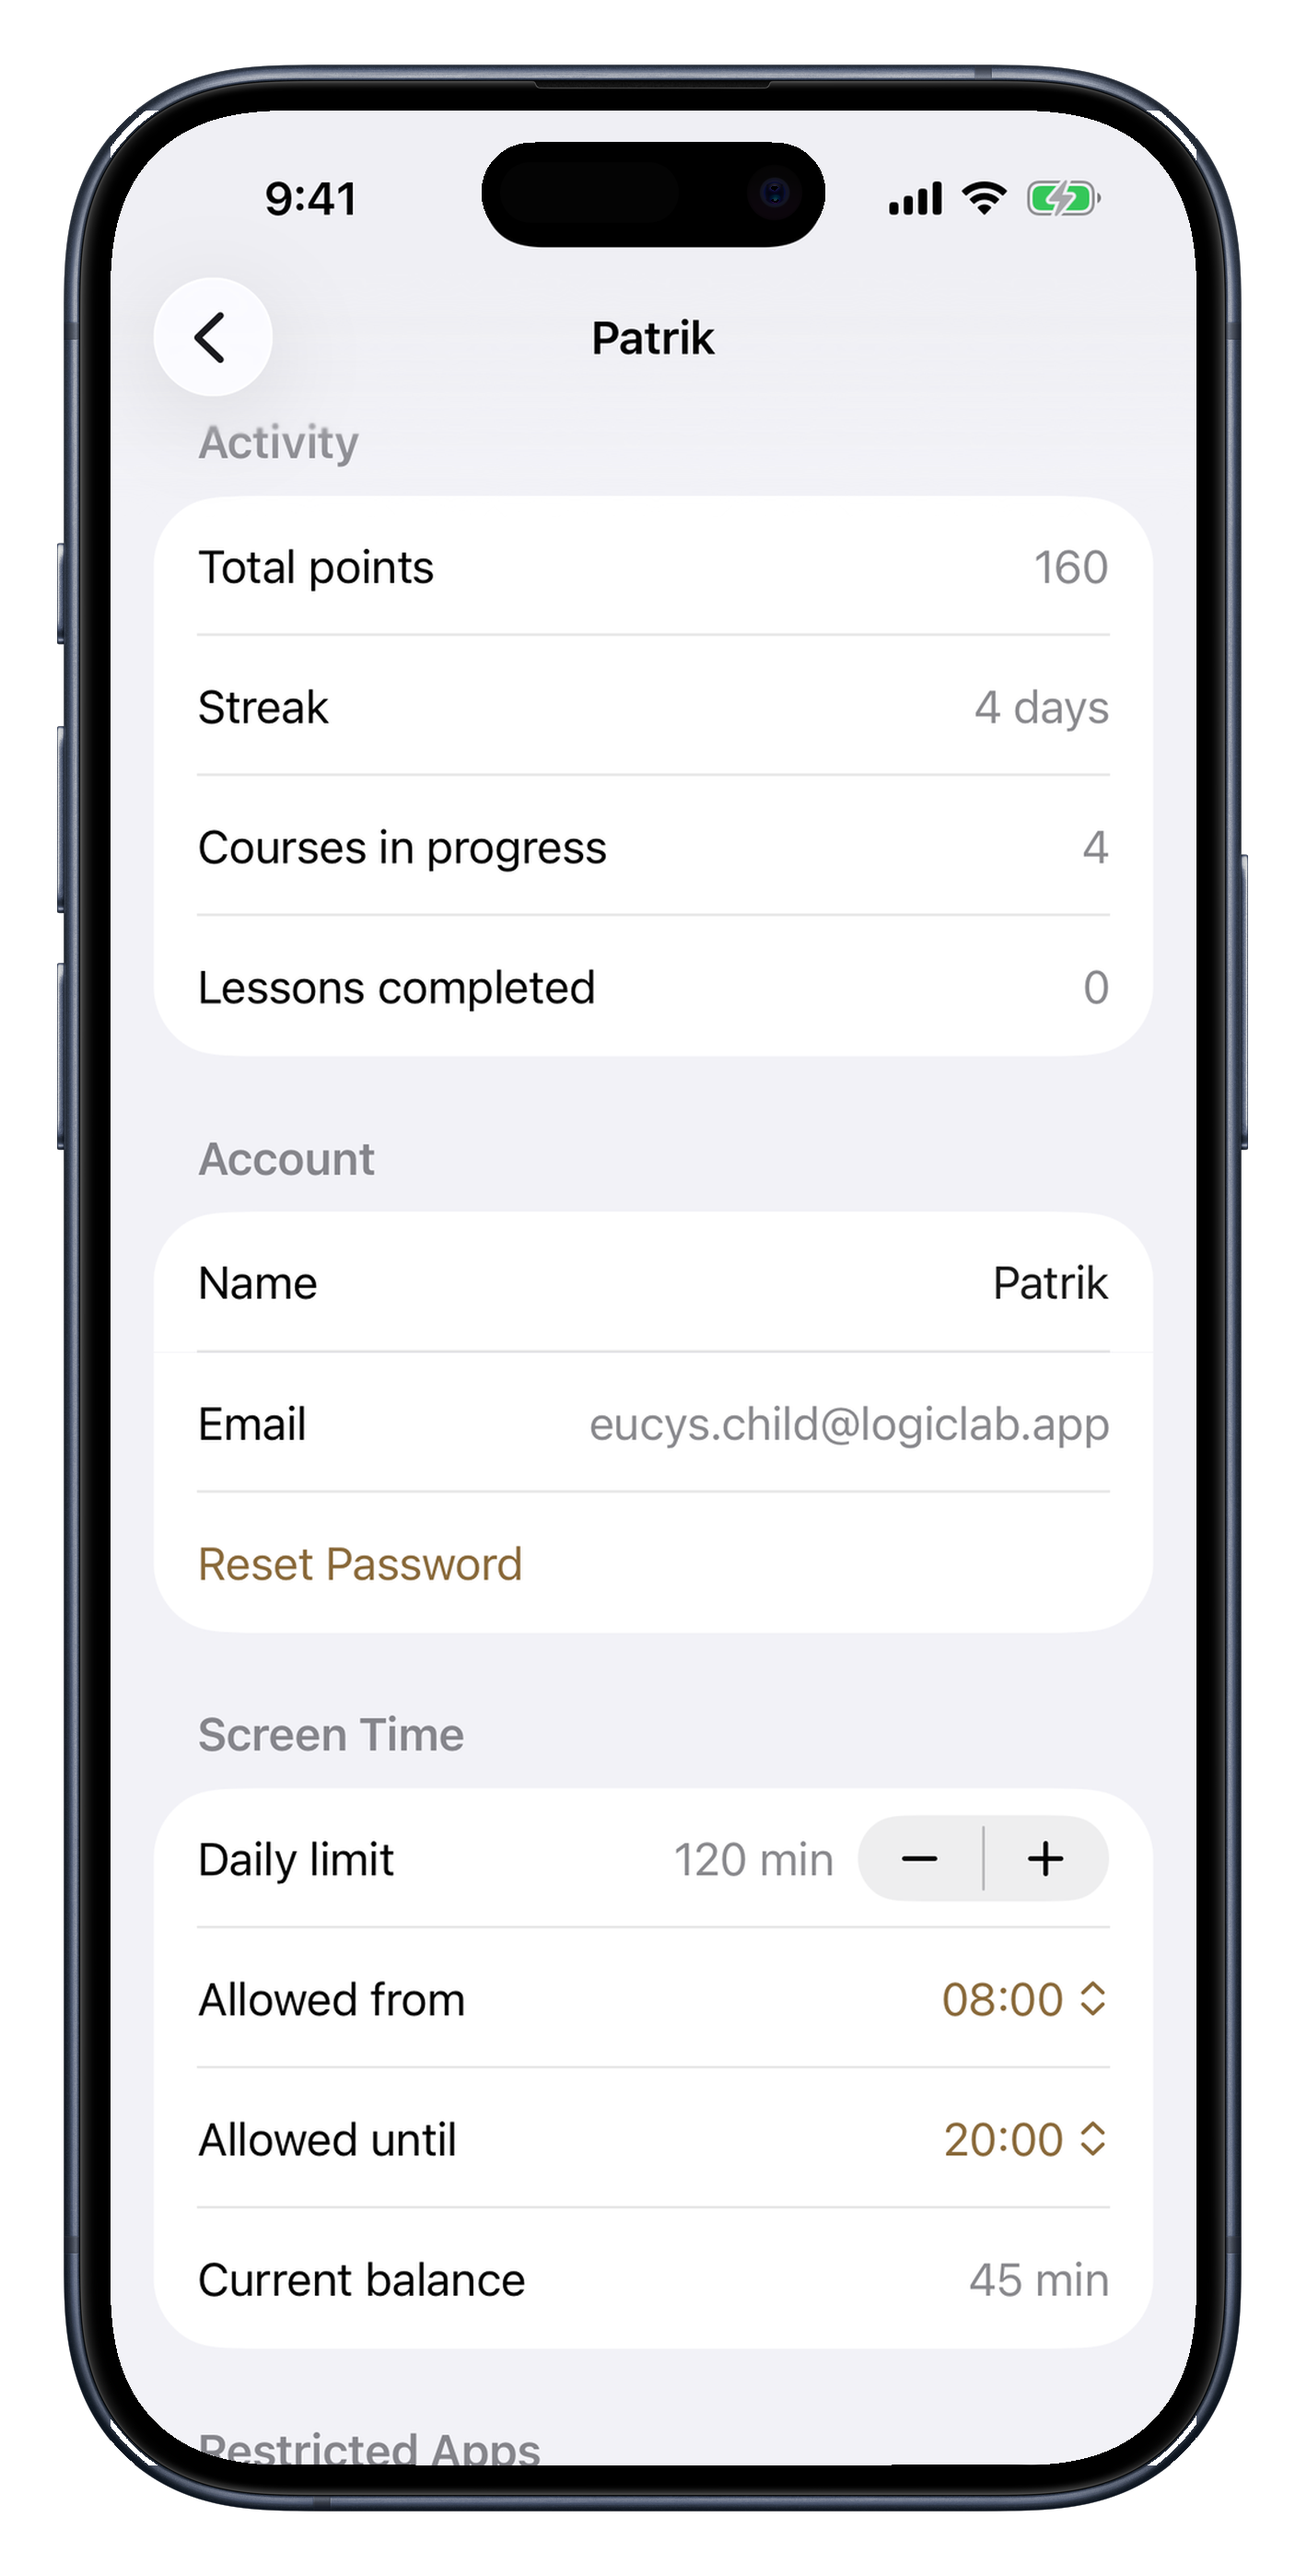
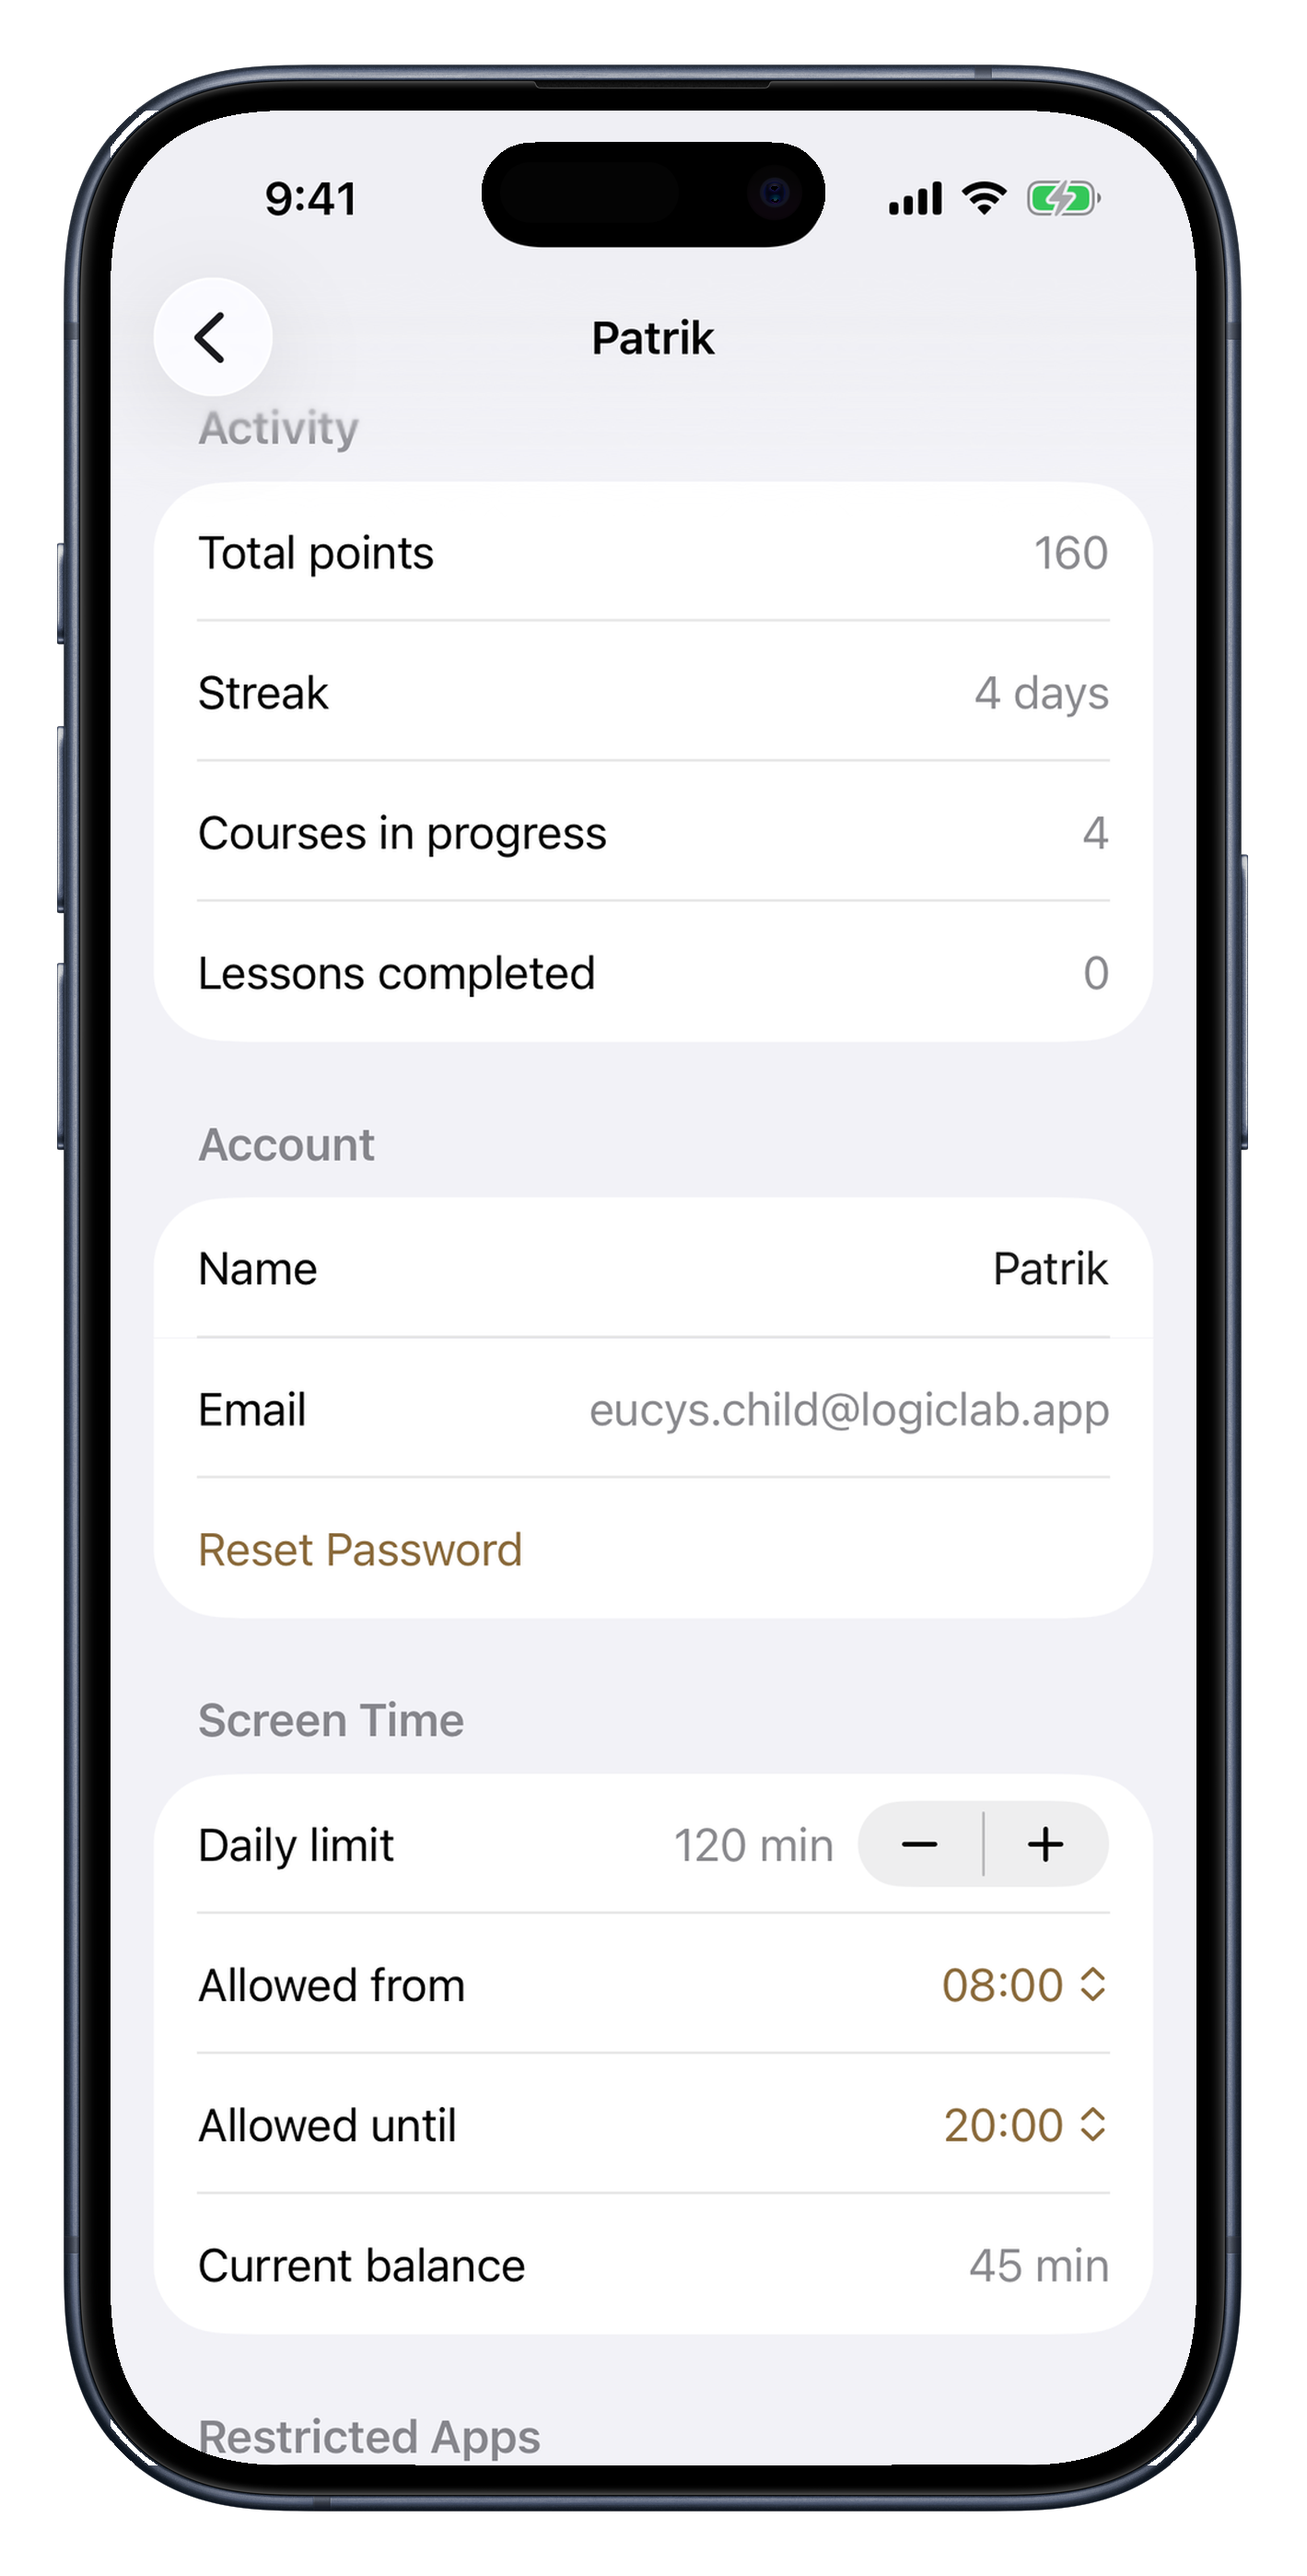
poster_2: fade the lesson fan into the panel at the crop, and the newest parent capture

diff --git a/poster_2.html b/poster_2.html
@@ -483,6 +483,25 @@
 
         /* right — three stages, overlapped and stepping up, all cropped by the edge */
         .dev-fan { position: absolute; inset: 0; }
+
+        /* The fan runs past the bottom edge on purpose: cropping is what lets
+           the screens stay large enough to read. This fades the cut into the
+           panel so it reads as a deliberate edge, not a clipped image. */
+        .dev-fan::after {
+            content: "";
+            position: absolute;
+            left: 0; right: 0; bottom: 0;
+            height: 96px;
+            z-index: 4;
+            pointer-events: none;
+            background: linear-gradient(
+                to bottom,
+                rgba(247, 240, 222, 0) 0%,
+                rgba(247, 240, 222, 0.55) 45%,
+                rgba(247, 240, 222, 0.93) 78%,
+                var(--cream-light) 100%
+            );
+        }
         .dev-fan figure { position: absolute; width: 215px; }
         .dev-fan figure img { position: static; display: block; width: 100%; }
 
@@ -637,7 +656,7 @@
                 <div class="logo-wrap">
                     <img src="logo_logiclabkids.png" alt="LogicLab Kids">
                 </div>
-                <h1>Experimental and method</h1>
+                <h1>What I built</h1>
             </div>
             <div class="hdr-badge">LogicLab Kids · EUCYS</div>
         </div>
@@ -651,7 +670,7 @@
                     <span class="stitle" style="margin-bottom: 0;">Native <span class="hl">Platforms</span></span>
                     <span class="pillar-num"><br></span>
                 </div>
-                <p>Native <b>SwiftUI (MVVM)</b> on iOS, live on TestFlight; <b>Kotlin Compose</b> on Android. All 36 lessons ship as bundled JSON, so a lesson runs end to end with the network off; the cloud holds only identity, progress and the tutor.</p>
+                <p>I love great design. Especially that "native look". So i built 2 apps, 1 for iOS and one for android. Seperate, partially for the looks, and partially so both can lock the screen from the core.<br><br><br></p>
             </div>
 
             <!-- Pillar 2 -->
@@ -660,7 +679,7 @@
                     <span class="stitle" style="margin-bottom: 0;">Stage <span class="hl">Grammar</span></span>
                     <span class="pillar-num"><br></span>
                 </div>
-                <p><b>6 courses × 6 lessons × 5 stages = 180 stages.</b> Every lesson opens on a story and closes on the AI challenge; between them, three tasks drawn from five types: Quiz, Spot-It, Sort-It, Build-It, Grid. A miss costs nothing: after two, the explanation is shown.</p>
+                <p><b>6 courses × 6 lessons × 5 stages = 180 stages.</b> Every lesson opens on a story and closes on the AI challenge; between them, three tasks drawn from five types: Quiz, Spot-It, Sort-It, Build-It, Grid. If the child guesses randomly they don't get screen time:(<br><br></p>
             </div>
 
             <!-- Pillar 3 -->
@@ -669,7 +688,7 @@
                     <span class="stitle" style="margin-bottom: 0;">Premack <span class="hl-warm">Contingency</span></span>
                     <span class="pillar-num" style="color: var(--warm);"><br></span>
                 </div>
-                <p>Premack (1959): the higher-probability behaviour reinforces the lower one. A solved lesson pays <b>+5 min and 20–25 pts</b> into a ledger the child spends inside parent-allowed hours; an Early Bird deadline set by the parent multiplies the payout.</p>
+                <p>Premack (1959): The higher-probability behaviour reinforces the lower one. A solved lesson pays <b>+5 min and 20–25 pts</b> into a ledger the child spends inside parent-allowed hours; so a child can spend their screentime instantly on TikTok, or save up to watch a moview on the weekend.</p>
             </div>
 
             <!-- Pillar 4 -->
@@ -678,7 +697,7 @@
                     <span class="stitle" style="margin-bottom: 0;">Constrained <span class="hl">Gemini</span></span>
                     <span class="pillar-num"><br></span>
                 </div>
-                <p>The challenge is the app’s only AI surface and always the last stage. The system prompt forbids stating the answer and caps every reply at three sentences; a low token ceiling stops it lecturing. The child must make at least three moves.</p>
+                <p>The challenge is the app’s only AI surface and always the last stage. The system prompt forbids stating the answer and caps every reply at three sentences, here the child argues against the ai, which then fairly judges the argument.<br><br></p>
             </div>
 
         </div>
@@ -707,7 +726,7 @@
 
                 <div class="premack-box">
                     <h4>Why the lock is in the OS</h4>
-                    <p>Making entertainment contingent on reasoning only works if it cannot be negotiated. So the lock and the key are both in iOS, not in the app, so a tech sawy 15 year old cant hack the system without him knowing the password set by the parent.</p>
+                    <p>Making entertainment contingent on reasoning only works if it cannot be negotiated. So the lock and the key are both in the OS, not in the app, so a tech savvy 15 year old can't hack the system without knowing the password set by the parent.</p>
                 </div>
             </div>
 
@@ -723,14 +742,13 @@
                             <img class="dev" src="posterimages/framed2/parent.png" alt="Screen-time settings">
                         </div>
                         <div class="spec-list">
-                            <div><b>Daily limit</b><span>a hard ceiling on reward minutes</span></div>
+                            <div><b>Daily limit</b><span>the base limit</span></div>
                             <div><b>Allowed hours</b><span>when the minutes may be spent</span></div>
-                            <div><b>App whitelist</b><span>which apps the shield lifts on</span></div>
-                            <div><b>Per child</b><span>own login, own data only</span></div>
+                            <div><b>App whitelist</b><span>which apps the shield lifts on, so the child can still call their parent in an emergency, or do school work</span></div>
+                            <div><b>Per child</b><span>own limits, own data</span></div>
                         </div>
                     </div>
-                    <div class="fig-footer">The parent sets the economy once: daily ceiling, allowed window, whitelisted apps, one account per child. From then on FamilyControls enforces it and the app only keeps the ledger. Screen: shipped iOS build.
-                    </div>
+                    <div class="fig-footer">The parent sets the economy once: daily ceiling, allowed window, whitelisted apps, one account per child. From then on FamilyControls enforces it and the app only keeps the ledger.</div>
                 </div>
 
                 <div class="info-panel accent">
@@ -753,7 +771,7 @@
                             <figure class="s3"><img class="dev" src="posterimages/framed2/feedback.png" alt="Feedback stage"></figure>
                         </div>
                     </div>
-                    <div class="fig-footer warm">The “Daily Patterns” lesson: the concept arrives inside a scene the child knows, becomes a task the child must solve, and a wrong answer ends in an explanation, never a penalty. A socratic AI chat comes last to make sure the child understood the concept, and isnt just mashing buttons.</div>
+                    <div class="fig-footer warm">The “Daily Patterns” lesson: the concept arrives inside a scene the child knows, becomes a task the child must solve, and a wrong answer ends in an explanation, never a penalty. A socratic AI chat comes last to make sure the child understood the concept, and isn't just mashing buttons.</div>
                 </div>
 
                 <div class="info-panel warm">
@@ -819,6 +837,9 @@
     });
 })();
 </script>
+
+
+
 
 
 </body></html>
